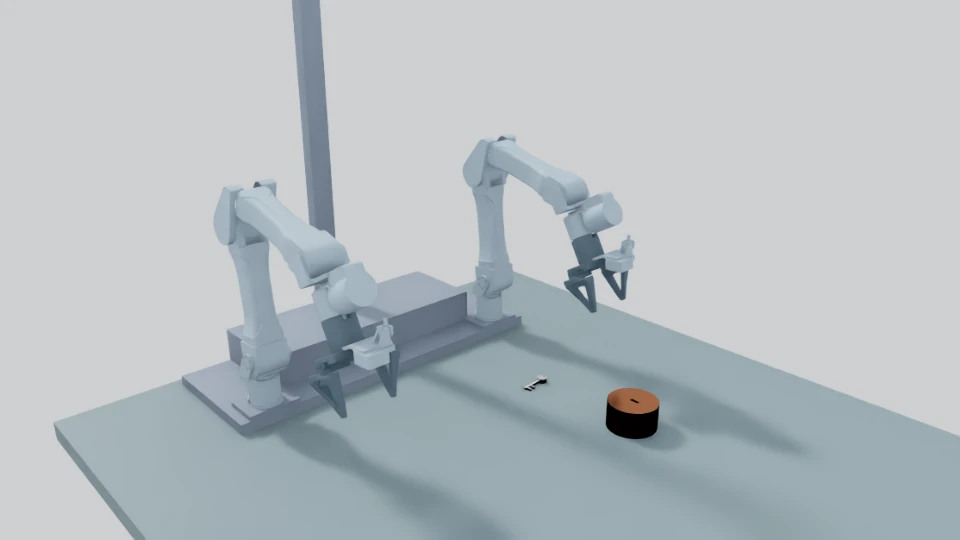
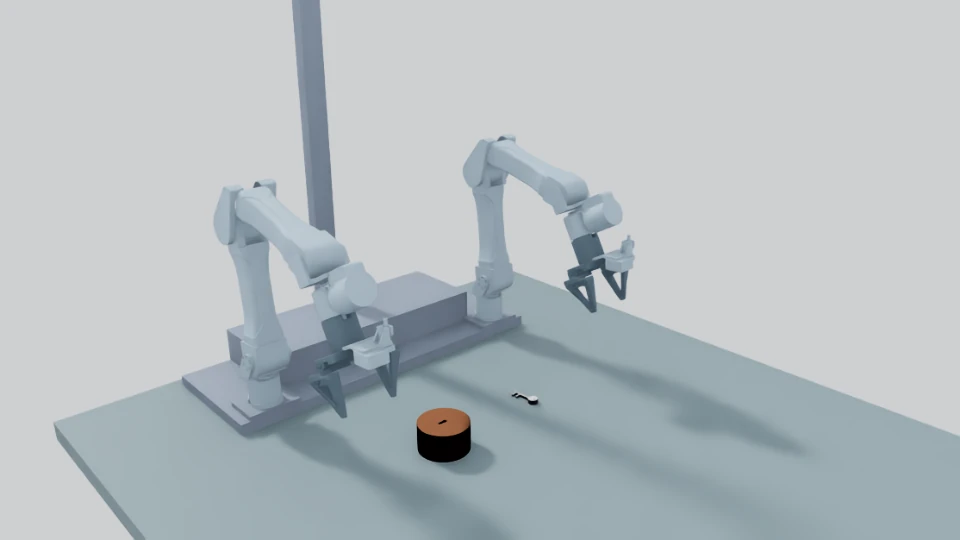
Refresh I2RT button and key reset views

diff --git a/catalog-data.js b/catalog-data.js
@@ -480,7 +480,7 @@ window.AXIS_ATLAS = {
       },
       "render": {
         "file": "images/i2rt_inserting.webp",
-        "caption": "RTX rendering of a seeded simulator reset. The physically authored I2RT link primitives are displayed in slate.",
+        "caption": "Simulator reset viewed from across the table. From the arms, the key is on the left and the slot is on the right, 24 cm apart at the same reach depth.",
         "kind": "Simulator reset",
         "source": "Reset-only Isaac capture on axis, seed 42, env 0"
       }
@@ -1073,7 +1073,7 @@ window.AXIS_ATLAS = {
       },
       "render": {
         "file": "images/i2rt_task10717.webp",
-        "caption": "RTX rendering of a seeded simulator reset. The physically authored I2RT link primitives are displayed in slate.",
+        "caption": "Simulator reset viewed from across the table. The red, red and blue buttons form a row across the arms. Each digit card sits 12 cm farther from the arms than its red button.",
         "kind": "Simulator reset",
         "source": "Reset-only Isaac capture on axis, seed 42, env 0"
       }
